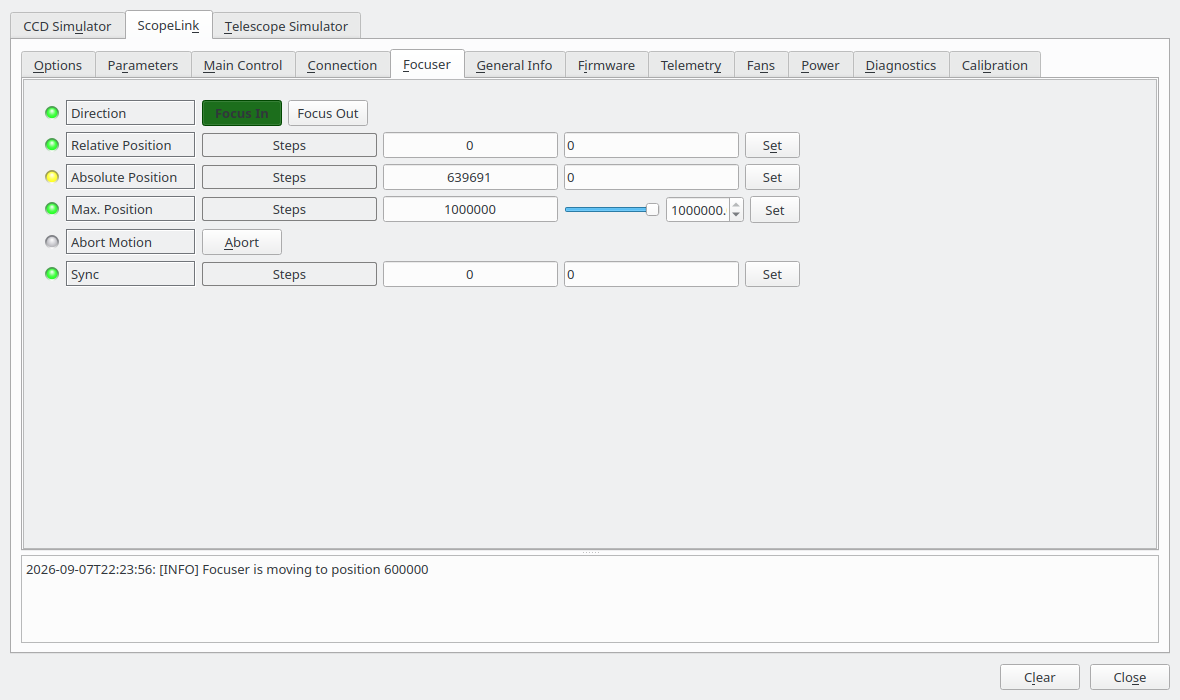
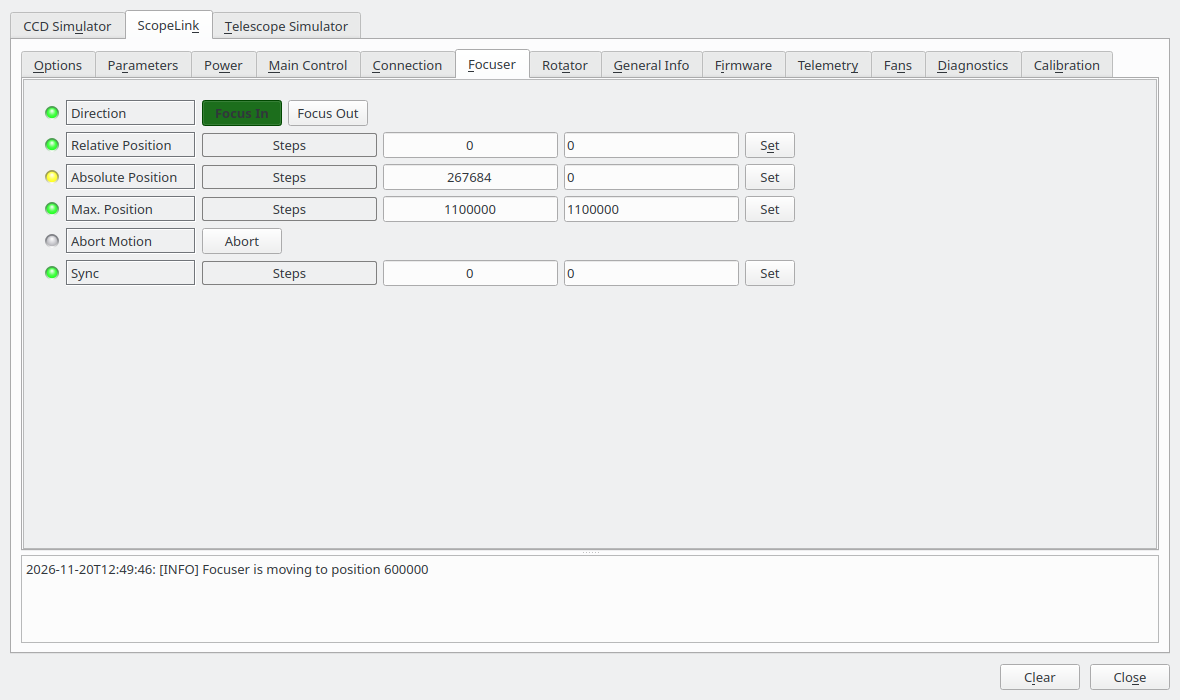
scopelink: dew heaters and named power outputs, for driver 1.3
Every screenshot retaken in one sitting on a generation 4 controller on
interface 1.3, so the tab bars agree again: the Power tab with the outputs
named and a dew heater under automatic control, and the rotator, flap and
focuser on the unit's three motors. The page describes the heater rows, the two
new parameter groups and three troubleshooting cases, and generation 4 is
described as tested on hardware, which it now is.

diff --git a/src/content/docs/focusers/astrolabs/scopelink/scopelink.md b/src/content/docs/focusers/astrolabs/scopelink/scopelink.md
@@ -1,7 +1,7 @@
 ---
 title: ScopeLink
 categories: ["focusers", "rotators", "dustcaps", "lightboxes", "auxiliaries"]
-description: Focuser, rotator, front flap, flat panel, fans and auxiliary power on the Astrolabs ScopeLink telescope controller.
+description: Focuser, rotator, front flap, flat panel, fans, auxiliary power and dew heaters on the Astrolabs ScopeLink telescope controller.
 thumbnail: ./scopelink.webp
 ---
 
@@ -15,7 +15,7 @@ thumbnail: ./scopelink.webp
 | **Executable** | `indi_scopelink` |
 | **Author** | Bence Toth, Astrolabs Hungary Kft. |
 | **Maintainer** | Bence Toth &lt;bence.toth@astrolabs.hu&gt; |
-| **Version** | 1.2 |
+| **Version** | 1.3 |
 | **Device type** | Focuser, rotator, dust cap, light box, auxiliary |
 | **Connection** | Serial (USB CDC-ACM) |
 | **Minimum INDI** | 2.0.0 |
@@ -40,7 +40,8 @@ ScopeLink is a single-box telescope controller from Astrolabs. One USB connectio
 - a flat panel
 - two mirror cooling fans, thermostatically controlled against the mirror-to-ambient temperature
   difference or switched by hand
-- two auxiliary power outputs
+- two auxiliary power outputs, each either a switch or — from interface 1.3 — a dew heater, set by hand
+  or under the controller's own automatic dew control
 - a powered USB hub — two ports with per-port fault reporting on generation 3, six ports on generation 4
 
 The driver publishes all of it as one INDI device. The interfaces it claims depend on what the connected
@@ -65,9 +66,10 @@ no front flap fitted.
 code path, differing only in what the capability read at connect time turns on. The driver is tested
 against real units of both.
 
-**Generation 4 is supported but has not been tested against hardware**, because none exists yet. It is
-checked against the simulator, which serves the same frames from the same capability set the driver
-decodes with.
+**Generation 4 is the newest**, and is tested against a real unit on interface 1.3: the focuser, the
+rotator on the third motor, the front flap, the flat panel, the sensor module, the dew heaters and the
+restart an assignment needs were all driven through this driver, and the screenshots on this page are of
+that unit.
 
 ### Which motor drives what
 
@@ -93,7 +95,7 @@ by two functions. An assignment that breaks one of them is refused by the contro
 somehow holding one anyway, the driver says what is wrong with it and offers no focuser, rotator or flap
 until it is corrected.
 
-![The assignment on the Parameters tab: the focuser on motor 1, the flap on motor 2, no rotator](./images/assignment.webp)
+![The assignment on the Parameters tab: the focuser on motor 1, the rotator on motor 3, the flap on motor 2](./images/assignment.webp)
 
 **A change needs the controller restarted, not just reconnected.** The controller reads its
 configuration when it starts and drives from that copy, so an assignment written while it is running is
@@ -104,7 +106,7 @@ the new assignment adds. The driver says as much in the log when you change one.
 link drops while it leaves the USB bus and comes back — a few seconds — and the driver then connects
 again by itself, which is when it decides which devices to offer. Pulling the power does the same thing;
 so does a firmware update, which ends with a restart for exactly this reason. If the controller does not
-come back within thirty seconds the driver says so and stops waiting; unplug it and plug it back in, then
+come back within a minute the driver says so and stops waiting; unplug it and plug it back in, then
 connect again.
 
 The infrared temperature sensor is a fitting option rather than a generation difference. On a unit
@@ -166,7 +168,7 @@ Two options are worth setting before the first connection, on the **Options** ta
 - **Simulated hardware** — which controller the driver imitates while **Simulation** is on. Ignored
   otherwise. Four entries for three generations, because a generation is not a frame layout: the same
   generation 3 board runs interface 1.0 and 1.1, and 1.1 is a different layout rather than a different
-  board. Generation 4 is simulated on interface 1.2, the firmware it ships with, and so needs no second
+  board. Generation 4 is simulated on interface 1.3, the firmware it ships with, and so needs no second
   entry. See "Running without a controller"
   below.
 
@@ -184,7 +186,7 @@ below behaves as it does on hardware, including motion, the flat panel, the faul
 configuration parameters. **Simulated hardware** on the Options tab picks which controller it imitates,
 which is what makes the differences between them visible — the USB hub and the smart switch settings
 appear and disappear as they would on the real controllers, and the interface 1.1 entry sends the frame
-layout that firmware uses. Generation 4 is simulated on interface 1.2, with a sensor module that has every
+layout that firmware uses. Generation 4 is simulated on interface 1.3, with a sensor module that has every
 sensor on it.
 
 It is meant for trying the driver out, for reproducing a problem without the hardware to hand, and for
@@ -343,21 +345,49 @@ Each fan can be left under the controller's own thermostat or taken over manuall
 
 ## Power
 
-**Auxiliary outputs** switches the two auxiliary power outputs.
+**Auxiliary outputs** switches the two auxiliary power outputs. An output run as a dew heater is on while
+it runs at any duty; switching it off sets it to nothing by hand, and switching it on again goes back to
+whatever it was last under — its last duty, or automatic control.
+
+From interface 1.3 either output can be configured as a **dew heater** on the Parameters tab (*Power
+outputs*, a change takes effect when the controller restarts). The Power tab then has three more rows, with
+one entry for each output that is a heater:
+
+- **Dew heaters (%)** is the duty it is running at, the share of every second it is on. Setting a duty runs
+  the heater at it by hand and takes it off automatic control.
+- **Automatic dew** hands the heater to the controller, which sets the duty from how close the air is to the
+  dew point (the margins are on the Parameters tab, under *Automatic dew control*). Switching it off keeps
+  the heater at the duty it was running at.
+- **Following dew** is green while automatic control is following the dew point, and amber while
+  it is on automatic with no dew point to follow — a sensor module without the humidity sensor, or one that
+  has stopped answering — and runs the heater at its power-up duty instead.
+
+Automatic control works from the air temperature, not the mirror's, so its margin can differ from **Above
+dew point** on the Telemetry tab, which is taken from the mirror while it is being measured. The duty is
+nothing at the start margin or above it, the output's automatic maximum at the full power margin or below
+it, and in proportion between; the controller moves it by at most 5 % a second rather than jumping.
+
+**Output names** names what is plugged into each output, such as *Main scope* or *Guide scope*, in up to
+20 characters. The name labels the output's switch in place of *Output 1* and *Output 2*, and an empty
+name goes back to the number. The names are kept in this driver's configuration, not on the controller,
+so a ScopeLink moved to another computer shows *Output 1* and *Output 2* until it is named there too. A
+script that switches the outputs by element name (`AUX_1`, `AUX_2`) is not affected by renaming them.
 
 **USB hub** reports the downstream ports: whether each is powered, and — on generation 3 — whether it has
 tripped. A port fault lights red and is also recorded in the fault store. A generation 4 hub has six ports
 and no separate fault lamps: it reports a tripped port by dropping that port's power, which the lamp
 beside it already says.
 
-![The Power tab on a generation 3 unit](./images/power.webp)
+![The Power tab on a generation 4 controller on interface 1.3: output 1, named Main scope, is a dew heater under automatic control, output 2 is a switch](./images/power.webp)
 
 ## Parameters
 
 Every configuration value the connected controller holds, grouped the way the firmware groups them:
 one group per motor, then the focuser, the rotator and the front flap, each of the two fans, temperature
-processing, the sensor supply, smart switch monitoring, the controller's own temperature, and the
-positions the unit has learnt. Values are read when the driver connects. Which groups appear depends on
+processing, the sensor supply, smart switch monitoring, the controller's own temperature, the positions
+the unit has learnt, and — from interface 1.3 — **Power outputs**, which says what each output runs as, how it
+starts and how far automatic control may take it, and **Automatic dew control**, which holds its margins. Values are read when the driver
+connects. Which groups appear depends on
 the unit — a value a controller does not hold is not offered, so a two motor controller has no **Motor
 3**, and the **Focuser**, **Rotator** and **Front flap** groups appear only on a controller that holds the
 motor assignment.
@@ -534,6 +564,18 @@ seeing this at all usually means the configuration came from a unit with more mo
 even though the Parameters tab plainly says one is. The controller has not restarted since you changed
 it, so the assignment it is driving from is still the old one. Press **Restart controller** on the
 Parameters tab.
+
+**There are no dew heater rows on the Power tab.** The output is still a switch as far as the running
+controller is concerned. An output's mode is read when the controller starts, so after setting it to *Dew
+heater* on the Parameters tab press **Restart controller**. A controller older than interface 1.3 has no
+dew heaters at all.
+
+**A dew heater on automatic sits at its power-up duty, with Following dew amber.** Automatic control has no
+dew point to work from: the sensor module has no humidity sensor, or it has stopped answering — the
+Telemetry tab shows which. The heater runs at its power-up duty until a dew point comes back.
+
+**A dew heater on automatic stays at 0 %.** The air is further above the dew point than the start margin,
+so there is nothing to do yet. The margins are on the Parameters tab, under *Automatic dew control*.
 
 **A move comes back refused.** The controller checks a move against its own idea of the mechanism, and
 the driver reports what it said rather than a generic failure: no motor assigned, no calibration to move
